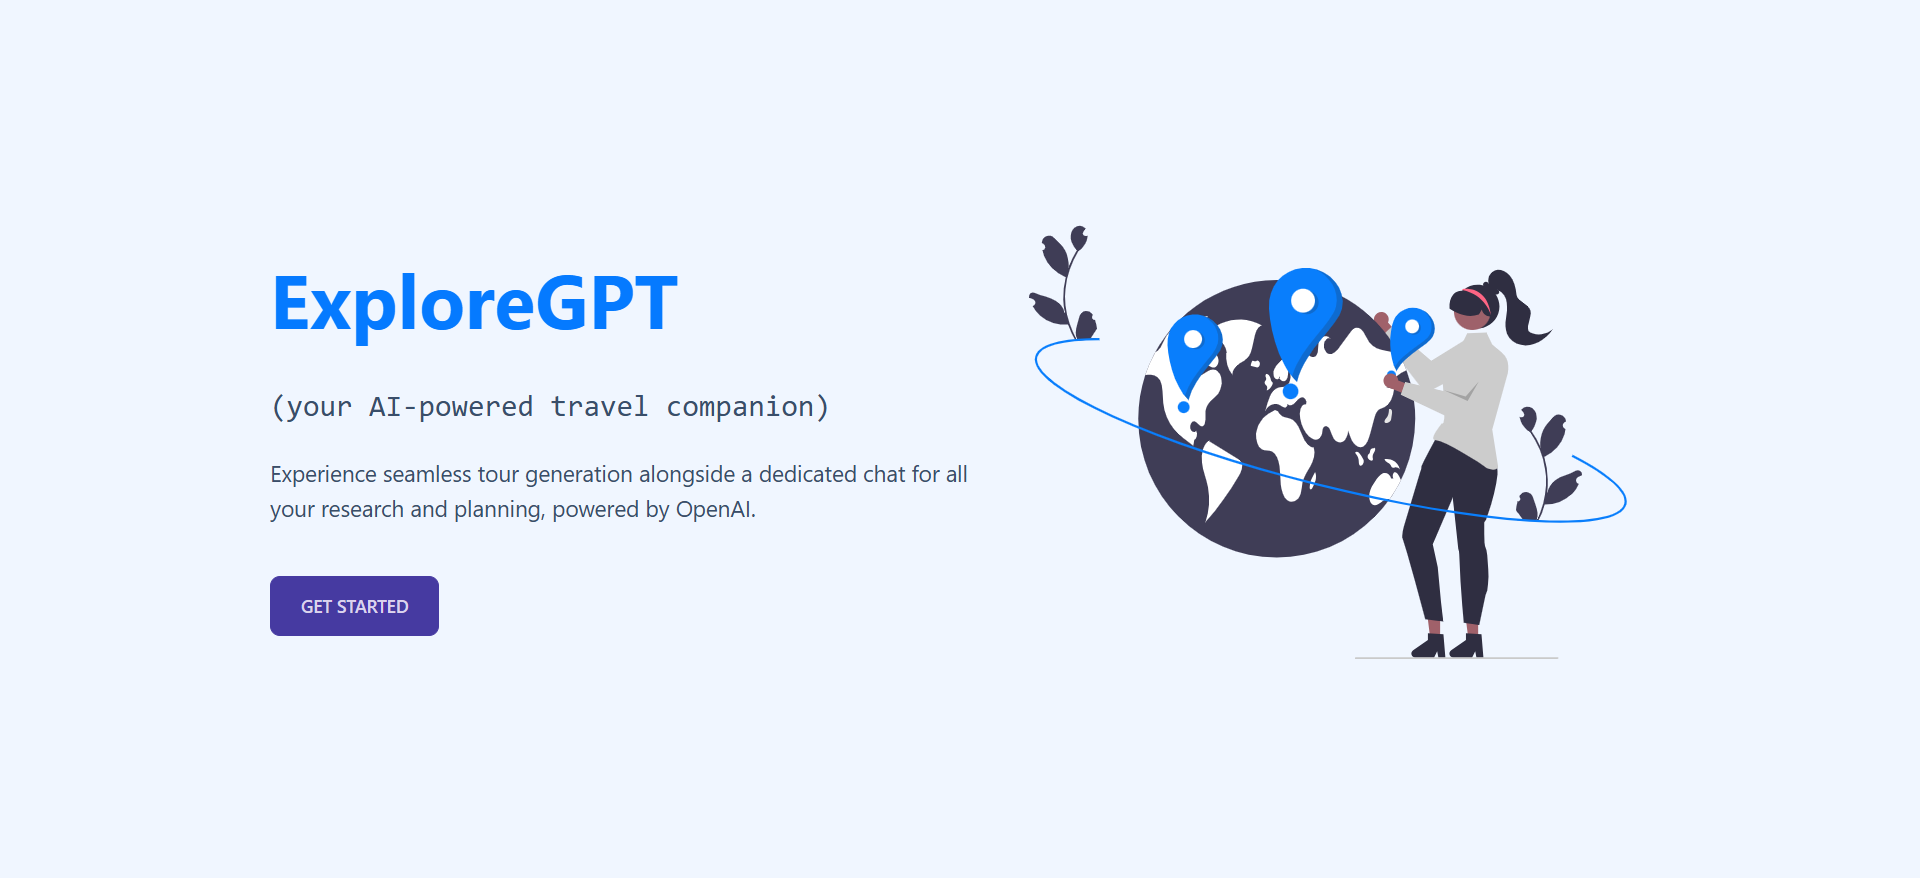
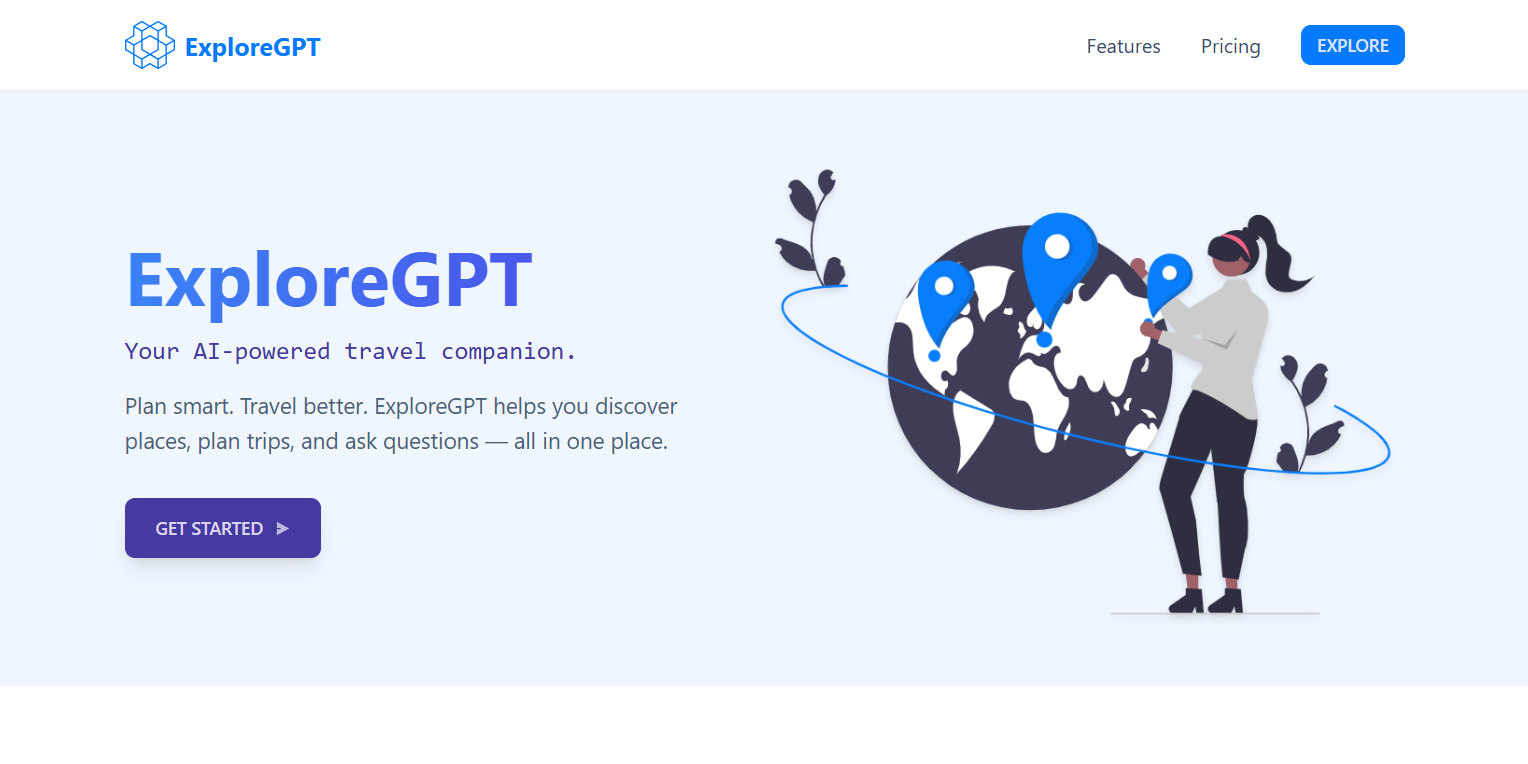
update HomePage UI

diff --git a/app/page.js b/app/page.js
@@ -1,37 +1,164 @@
-import Link from "next/link";
 import Image from "next/image";
+import Link from "next/link";
+import { RiSendPlane2Fill } from "react-icons/ri";
+import { SiOpenaigym } from "react-icons/si";
 import World from "../images/world-new.svg";
 
 const HomePage = () => {
   return (
-    <div className="hero bg-base-200 min-h-screen overflow-hidden">
-      <div className="hero-content p-4 md:p-10 flex-col md:flex-row-reverse">
-        <Image
-          src={World}
-          alt="logo"
-          className="w-full max-w-xs sm:max-w-sm md:max-w-md lg:max-w-lg common-transition"
-          priority
-        />
-        <div className="max-w-xl">
-          <h1 className="py-4 text-6xl font-bold text-primary text-center md:text-left md:text-5xl lg:text-6xl common-transition">
-            ExploreGPT
-          </h1>
-
-          <p className="py-6 text-2xl font-mono leading-loose text-center md:text-left md:text-xl lg:text-2xl common-transition">
-            (your AI-powered travel companion)
-          </p>
-
-          <p className="pb-8 text-lg leading-loose text-center md:text-left md:text-base lg:text-lg common-transition">
-            Experience seamless tour generation alongside a dedicated chat for
-            all your research and planning, powered by OpenAI.
-          </p>
-          <div className="flex justify-center md:justify-normal">
-            <Link href="/tours" className="btn btn-secondary mt-2 px-6">
-              Get Started
+    <div className="bg-base-200 min-h-screen flex flex-col">
+      {/* Navbar */}
+      <nav className="w-full bg-base-100 shadow-sm py-4 px-6">
+        <div className="flex flex-col max-w-5xl mx-auto sm:flex-row justify-between items-center">
+          <div className="flex items-center space-x-2 pr-6">
+            <SiOpenaigym className="w-10 h-10 text-primary" />
+            <span className="text-xl font-bold text-primary">ExploreGPT</span>
+          </div>
+          <div className="flex items-center space-x-8 pt-4 sm:py-0">
+            <Link href="#features" className="hover:text-primary">
+              Features
+            </Link>
+            <Link href="#pricing" className="hover:text-primary">
+              Pricing
+            </Link>
+            <Link href="/tours" className="btn btn-sm btn-primary">
+              Explore
             </Link>
           </div>
         </div>
-      </div>
+      </nav>
+
+      {/* Hero Section */}
+      <section className="hero flex-grow overflow-hidden">
+        <div className="hero-content p-6 md:p-16 md:py-7 flex-col md:flex-row-reverse duration-700 max-w-6xl mx-auto gap-10">
+          <Image
+            src={World}
+            alt="ExploreGPT Hero"
+            className="w-full max-w-xs sm:max-w-sm md:max-w-sm lg:max-w-lg transition-transform duration-700 hover:scale-105 drop-shadow-md"
+            priority
+          />
+          <div className="max-w-xl">
+            <h1 className="py-4 text-5xl lg:text-6xl font-bold text-center md:text-left bg-gradient-to-r from-blue-500 to-indigo-600 bg-clip-text text-transparent">
+              ExploreGPT
+            </h1>
+
+            <p className="text-xl font-mono text-center md:text-left text-secondary">
+              Your AI-powered travel companion.
+            </p>
+
+            <p className="mt-4 text-base lg:text-lg text-center md:text-left text-base-content/90">
+              Plan smart. Travel better. ExploreGPT helps you discover places,
+              plan trips, and ask questions — all in one place.
+            </p>
+
+            <div className="mt-8 flex justify-center md:justify-start">
+              <Link
+                href="/tours"
+                className="btn btn-secondary px-6 shadow-lg hover:shadow-xl transition-all duration-300 group"
+              >
+                Get Started{" "}
+                <RiSendPlane2Fill className="ml-0.5 transition-transform duration-300 opacity-80 group-hover:opacity-90 group-hover:translate-x-0.5 w-3 h-3 " />
+              </Link>
+            </div>
+          </div>
+        </div>
+      </section>
+
+      {/* Features Section */}
+      <section id="features" className="py-14 px-6 bg-base-100">
+        <div className="max-w-5xl mx-auto text-center duration-700">
+          <h2 className="text-3xl font-bold text-primary mb-10">
+            Why ExploreGPT?
+          </h2>
+          <div className="grid text-center md:grid-cols-3 gap-8 sm:text-left">
+            {[
+              {
+                title: "🗺 Tour Generation",
+                desc: "Generate exciting tour plans based on your chosen city and country.",
+              },
+              {
+                title: "🔍 Tour Search",
+                desc: "Browse tours created by others to get inspired for your next trip.",
+              },
+              {
+                title: "💬 AI Chat Assistance",
+                desc: "Ask questions, get suggestions, or refine your planning with ease.",
+              },
+            ].map((feature, i) => (
+              <div
+                key={i}
+                className="p-6 bg-base-200 rounded-box shadow-md hover:shadow-xl hover:-translate-y-2 transition-all duration-300"
+              >
+                <h3 className="text-xl font-semibold mb-2">{feature.title}</h3>
+                <p className="text-sm text-base-content/90">{feature.desc}</p>
+              </div>
+            ))}
+          </div>
+        </div>
+      </section>
+
+      {/* Call-to-Action + Pricing Section */}
+      <section
+        id="pricing"
+        className="py-20 bg-gradient-to-br from-blue-600 via-blue-700 to-indigo-700 text-primary-content"
+      >
+        <div className="max-w-5xl mx-auto text-center px-6">
+          <h2 className="text-4xl font-bold mb-4">Start Planning Smarter 🧠</h2>
+          <p className="mb-10 text-lg text-white/80">
+            Your next trip is just a few clicks away. Try it for free — no
+            hassle, no cards!
+          </p>
+
+          <div className="grid md:grid-cols-2 gap-8">
+            {/* Free Tier */}
+            <div className="bg-base-100 text-base-content rounded-box p-8 shadow-lg hover:shadow-xl transition-all duration-300 hover:-translate-y-2 relative">
+              <span className="absolute top-0 right-0 bg-blue-500 text-white text-xs font-bold px-3 py-1 rounded-bl-md">
+                Early Users Special
+              </span>
+              <h3 className="text-2xl font-bold mb-2">Free</h3>
+              <p className="text-xl mb-4 text-blue-600 font-semibold">
+                $0 / mo
+              </p>
+              <ul className="text-sm text-center space-y-3 mb-6">
+                <li>✅ 1000 free tokens to explore</li>
+                <li>✅ Browse existing tours</li>
+                <li>✅ Use the AI chat assistant</li>
+              </ul>
+              <Link href="/tours" className="btn btn-secondary w-full">
+                Try for Free
+              </Link>
+            </div>
+
+            {/* Pro Tier */}
+            <div className="bg-base-100 text-base-content rounded-box p-8 shadow-lg hover:shadow-xl transition-all duration-300 hover:-translate-y-2">
+              <h3 className="text-2xl font-bold mb-2">Pro</h3>
+              {/* <h3 className="text-xl font-bold mb-2">(Coming Soon)</h3> */}
+              <p className="text-xl mb-4 text-blue-600 font-semibold">
+                $9 / mo
+              </p>
+              <ul className="text-sm text-center space-y-3 mb-6">
+                <li>🚀 Unlimited tour generation</li>
+                <li>🗃 Save & manage your trips</li>
+                <li>💬 Enhanced AI planning support</li>
+              </ul>
+              <button className="btn btn-disabled w-full">Coming Soon</button>
+            </div>
+          </div>
+        </div>
+      </section>
+
+      {/* Footer */}
+      <footer className="p-6 bg-base-300 text-center text-sm text-base-content">
+        <div className="max-w-5xl mx-auto">
+          <p className="mb-2">
+            © {new Date().getFullYear()} ExploreGPT. All rights reserved.
+          </p>
+          <p className="text-xs opacity-90">
+            This is a demo project built for portfolio and demonstration
+            purposes only. ExploreGPT is not a real product (yet 😉).
+          </p>
+        </div>
+      </footer>
     </div>
   );
 };

diff --git a/app/globals.css b/app/globals.css
@@ -5,3 +5,9 @@
 .common-transition {
   @apply transition-all duration-300 ease-in-out;
 }
+
+@layer base {
+  html {
+    scroll-behavior: smooth;
+  }
+}
